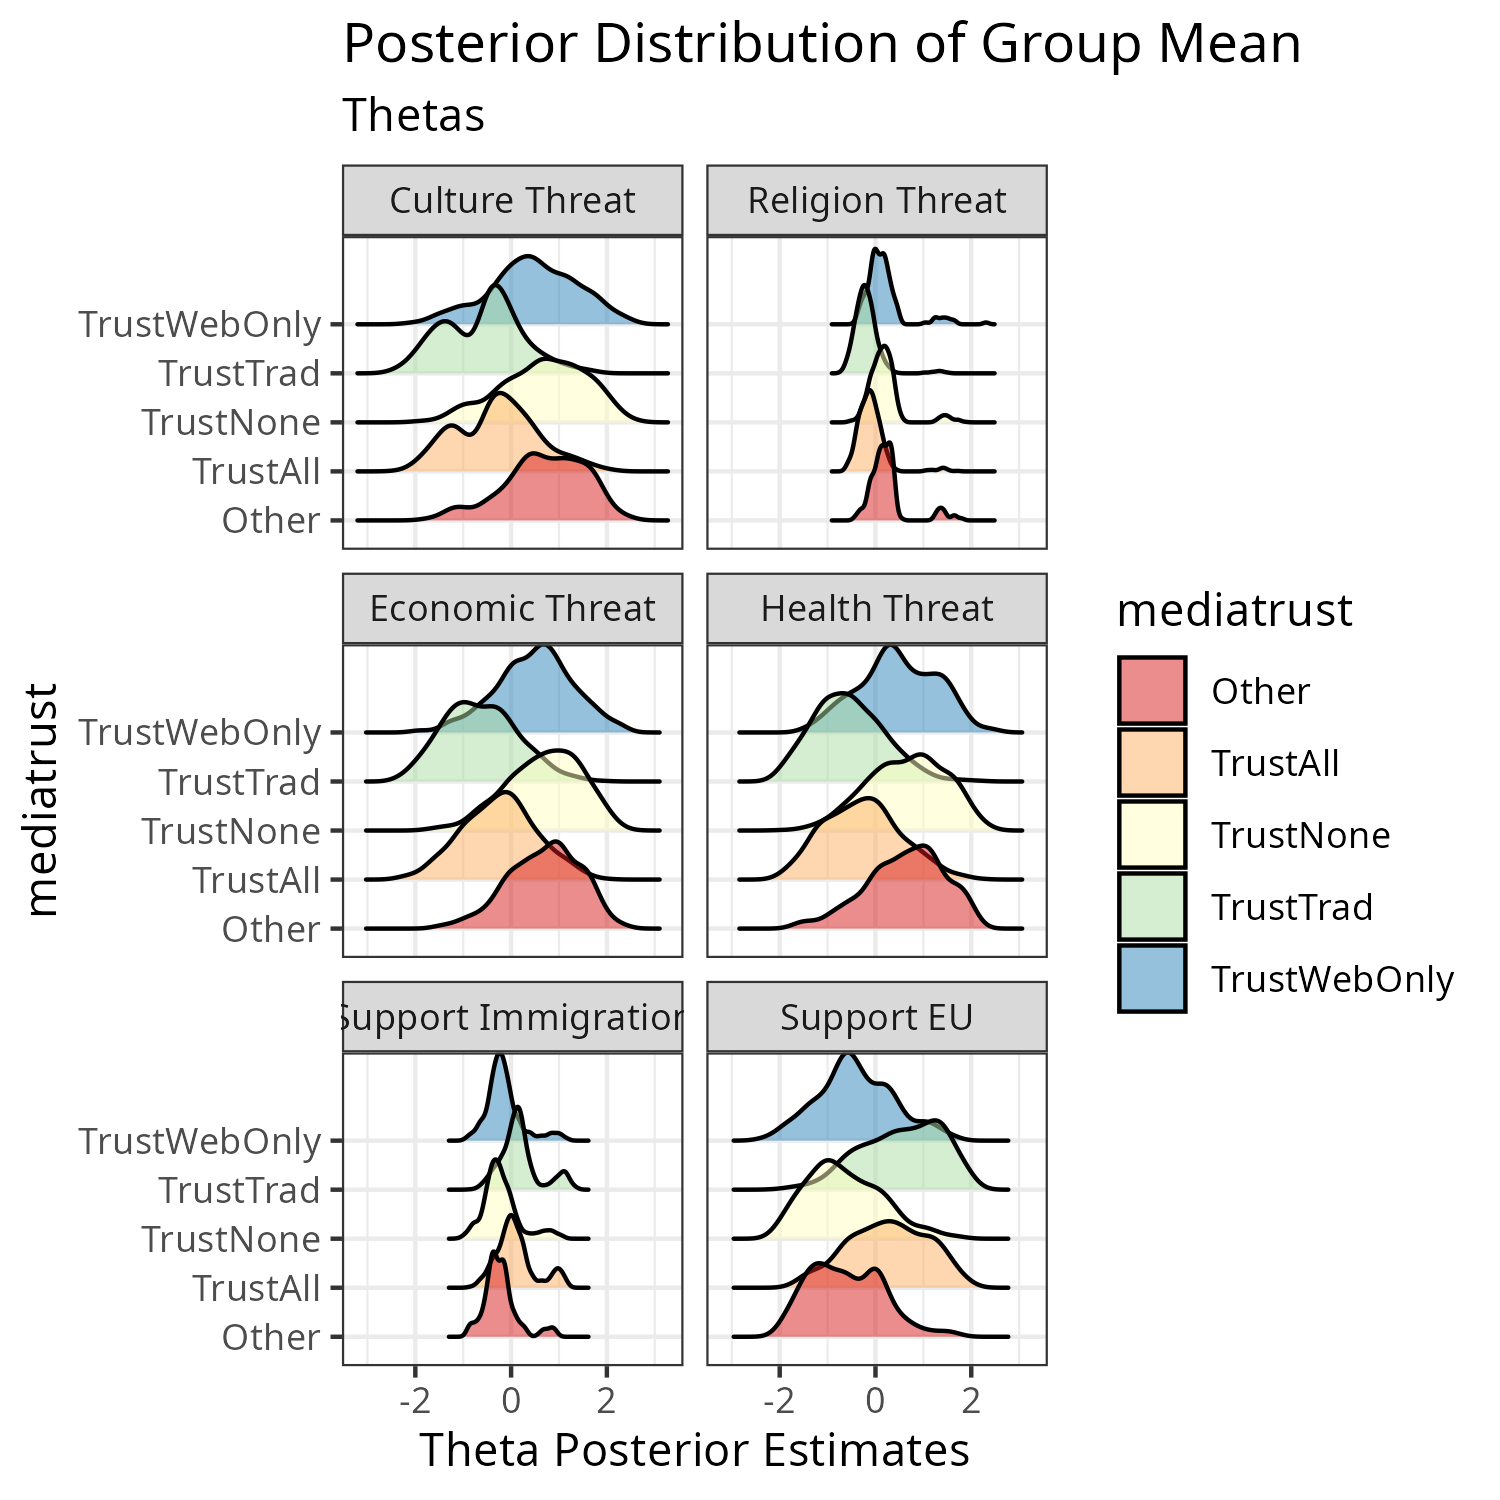
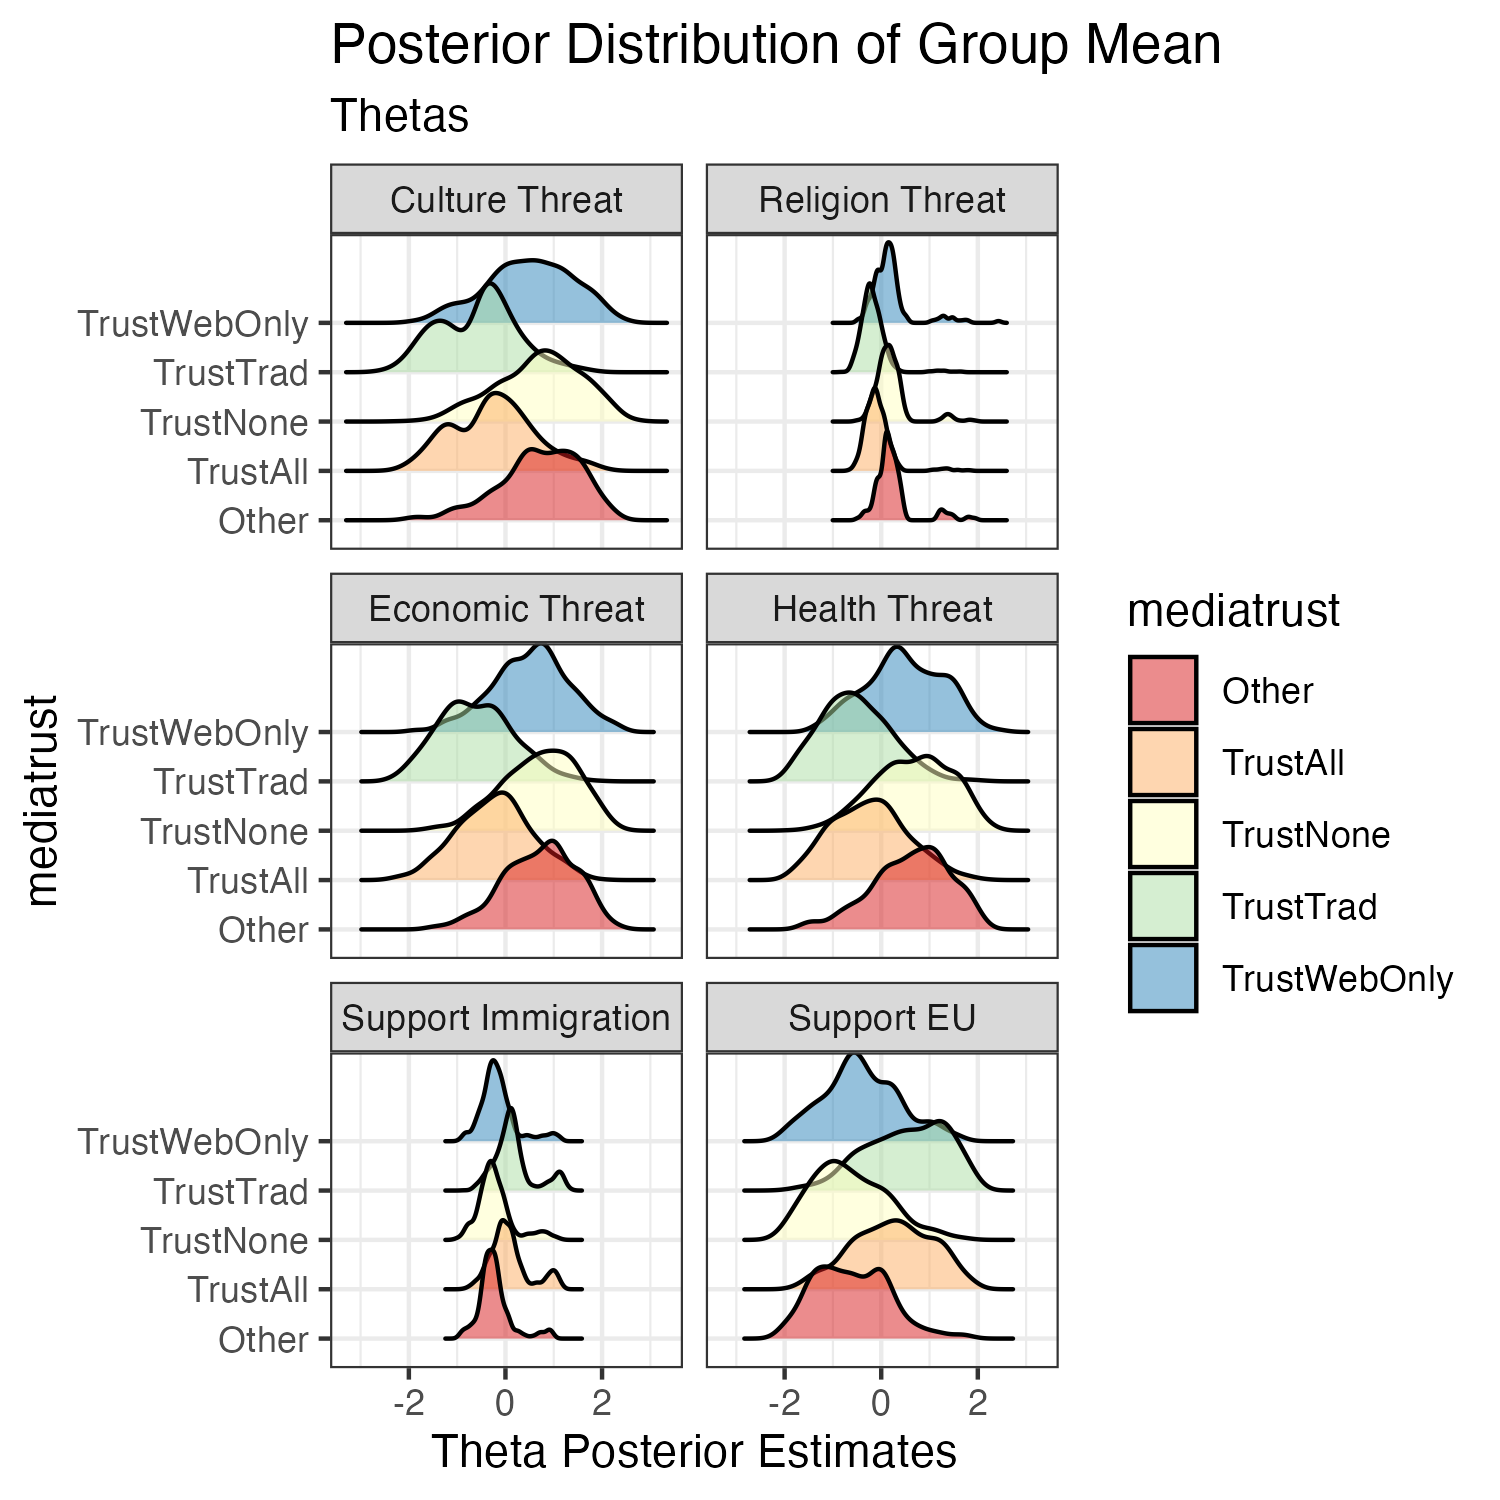
Updated test suite to reflect what the irtm() wrapper returns

diff --git a/NEWS.md b/NEWS.md
@@ -1,0 +1,8 @@
+# IRTM 0.1.2
+
+## Bug fixes
+- Fixed an issue in anchor handling that could introduce invalid values (e.g., NA) in the sampler under certain constraint configurations.
+This could theoretically affect previous results, though effects were minor in our tests. 
+
+## Maintenance
+- Transferred package maintainership to David Siegel.